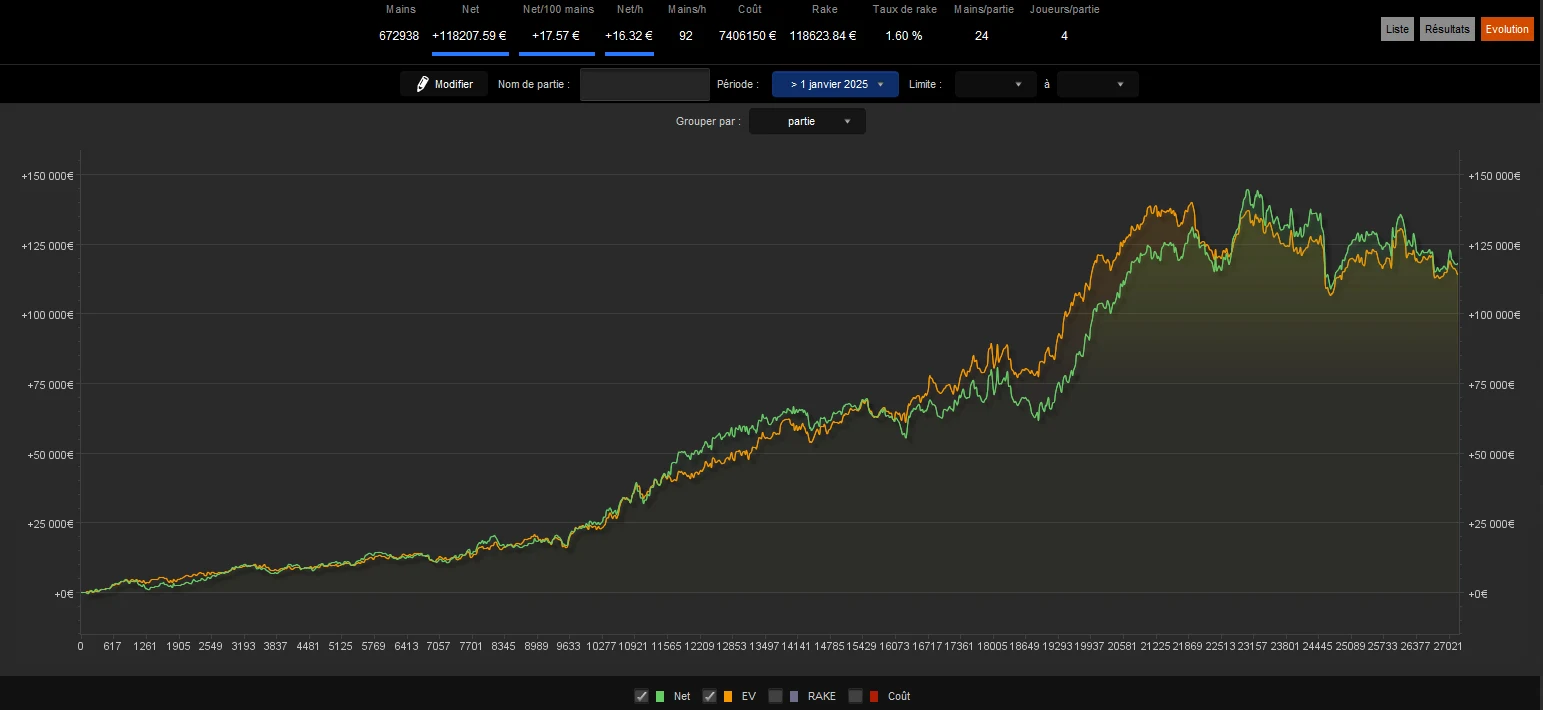
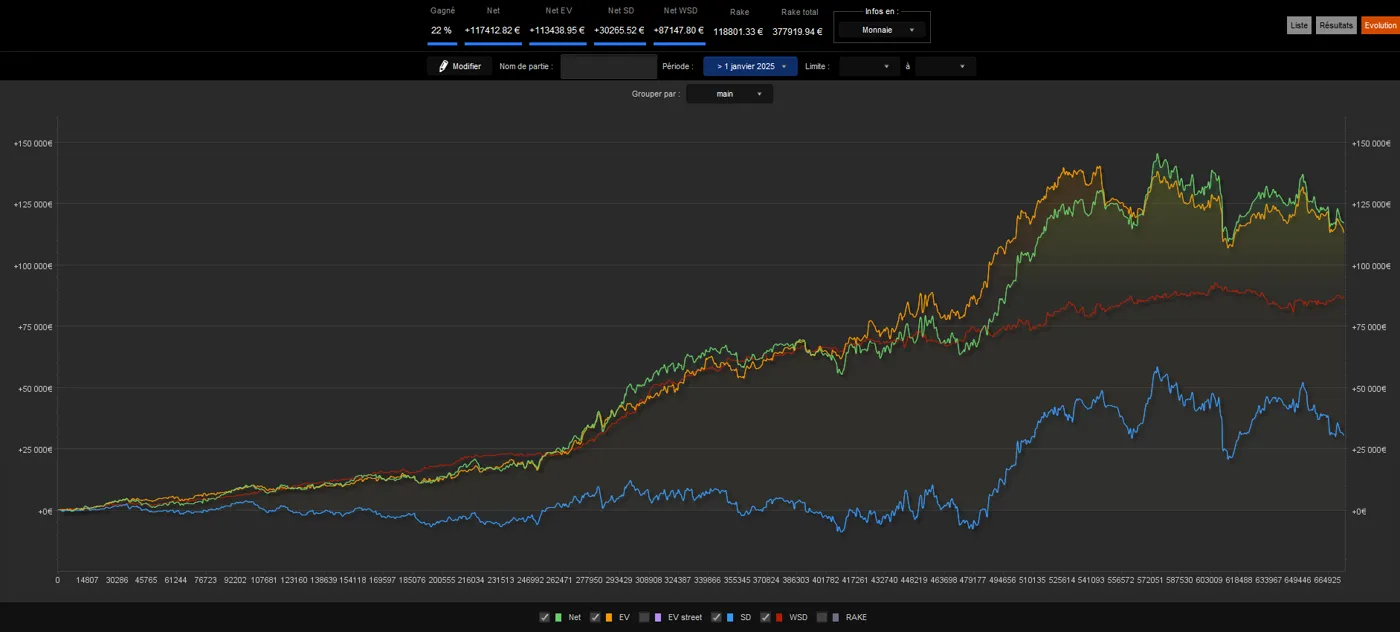
Results: new before/after curves (with SD + WSD lines)

diff --git a/index.html b/index.html
@@ -251,8 +251,8 @@
       <article class="slide active">
         <header><p class="jump"><span>NL100</span><i>→</i><strong>NL2000</strong></p></header>
         <div class="gbox">
-          <div class="g before"><img src="img/resultat-2-avant.webp" alt="Courbe de gains avant RTS" loading="lazy"></div>
-          <div class="g after"><img src="img/resultat-2-apres.webp" alt="Courbe de gains après RTS" loading="lazy"></div>
+          <div class="g before"><img src="img/resultat-2-avant.webp?v=3" alt="Courbe de gains avant RTS" loading="lazy"></div>
+          <div class="g after"><img src="img/resultat-2-apres.webp?v=3" alt="Courbe de gains après RTS" loading="lazy"></div>
         </div>
       </article>
       <article class="slide pending">
